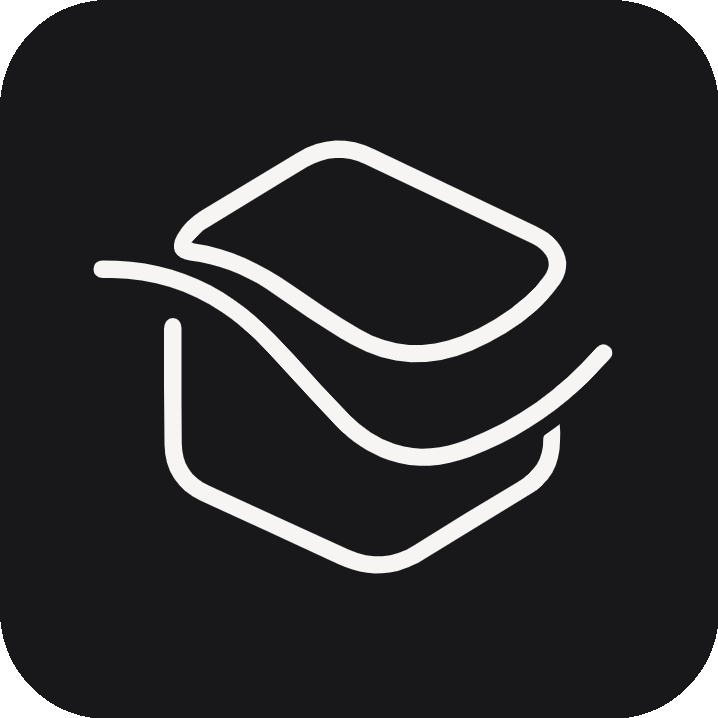
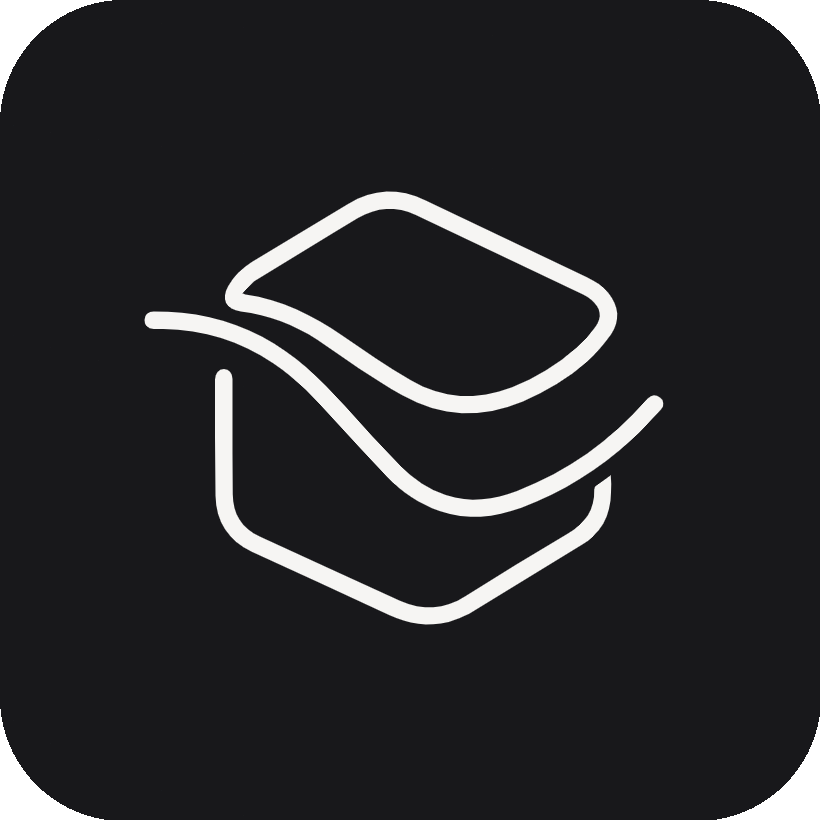
adjust padding

Changed region(s): [[0.1226, 0.1838, 0.8579, 0.7967]]

diff --git a/mcww/ui/mcwwAPI.py b/mcww/ui/mcwwAPI.py
@@ -113,7 +113,7 @@ class API:
                 },
                 {
                     "src": '/pwa/icon-rounded.png',
-                    "sizes": "718x718",
+                    "sizes": "820x820",
                     "type": "image/png",
                 },
             ],